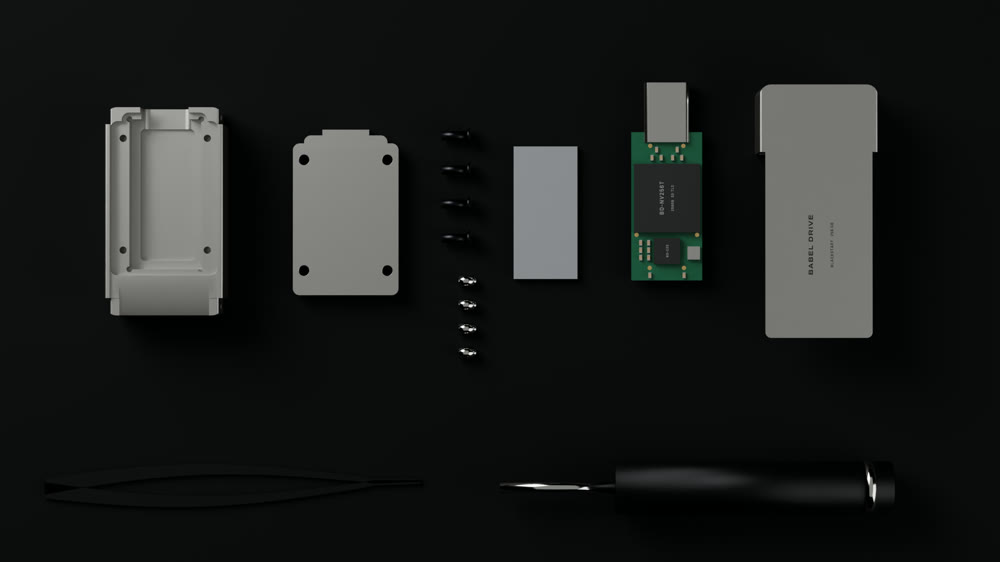
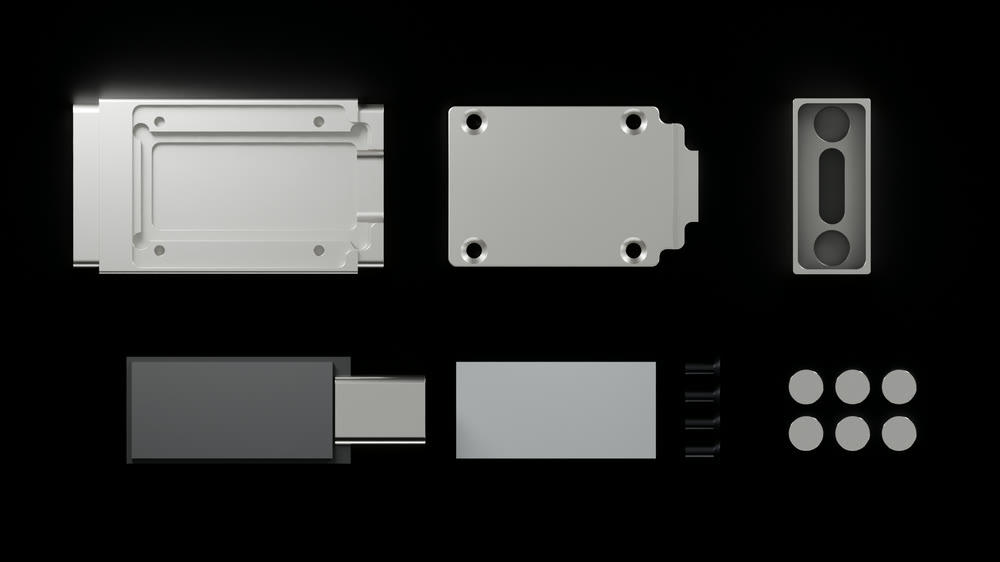
Deploy 2026-11-14 16:23

diff --git a/index.html b/index.html
@@ -718,12 +718,12 @@ footer .wrap{display:flex;flex-wrap:wrap;justify-content:space-between;gap:12px 
         <p class="lede">Machined from solid 316L stainless. The cap is held by magnets and fits either end.</p>
       </div>
       <figure class="shot big">
-        <div class="zoom"><img class="rise" src="img/plug-1600.jpg" srcset="img/plug-1000.jpg 1000w, img/plug-1600.jpg 1600w, img/plug-2400.jpg 2400w" sizes="(min-width: 1360px) 1280px, 92vw" width="2400" height="1500" loading="lazy" decoding="async" alt="Close-up of the USB-C plug held in the steel body"></div>
+        <div class="zoom"><img class="rise" src="img/plug-1600.jpg?v=2" srcset="img/plug-1000.jpg?v=2 1000w, img/plug-1600.jpg?v=2 1600w, img/plug-2400.jpg?v=2 2400w" sizes="(min-width: 1360px) 1280px, 92vw" width="2400" height="1500" loading="lazy" decoding="async" alt="Close-up of the USB-C plug held in the steel body"></div>
         <figcaption class="cap-row"><span>USB-C, held in steel on four sides</span><span>01</span></figcaption>
       </figure>
       <div class="pair">
-        <figure><div class="zoom"><img class="rise" src="img/logo-1000.jpg" srcset="img/logo-1000.jpg 1000w, img/logo-1600.jpg 1600w" sizes="(min-width: 700px) 46vw, 92vw" width="1600" height="1000" loading="lazy" decoding="async" alt="Laser-marked Babel Drive logo on the steel body"></div><figcaption class="cap-row"><span>Laser-marked on solid steel</span><span>02</span></figcaption></figure>
-        <figure><div class="zoom"><img class="rise" src="img/posted-1000.jpg" srcset="img/posted-1000.jpg 1000w, img/posted-1600.jpg 1600w" sizes="(min-width: 700px) 46vw, 92vw" width="1600" height="1000" loading="lazy" decoding="async" alt="The cap on the back end while the drive is in use"></div><figcaption class="cap-row"><span>Cap posts on the back</span><span>03</span></figcaption></figure>
+        <figure><div class="zoom"><img class="rise" src="img/logo-1000.jpg?v=2" srcset="img/logo-1000.jpg?v=2 1000w, img/logo-1600.jpg?v=2 1600w" sizes="(min-width: 700px) 46vw, 92vw" width="1600" height="1000" loading="lazy" decoding="async" alt="Laser-marked Babel Drive logo on the steel body"></div><figcaption class="cap-row"><span>Laser-marked on solid steel</span><span>02</span></figcaption></figure>
+        <figure><div class="zoom"><img class="rise" src="img/posted-1000.jpg?v=2" srcset="img/posted-1000.jpg?v=2 1000w, img/posted-1600.jpg?v=2 1600w" sizes="(min-width: 700px) 46vw, 92vw" width="1600" height="1000" loading="lazy" decoding="async" alt="The cap on the back end while the drive is in use"></div><figcaption class="cap-row"><span>Cap posts on the back</span><span>03</span></figcaption></figure>
       </div>
 
       <div class="viewer" id="viewer">
@@ -756,8 +756,8 @@ footer .wrap{display:flex;flex-wrap:wrap;justify-content:space-between;gap:12px 
   </section>
 
   <figure class="bleed parts">
-    <div class="parts-pan" id="ppan"><div class="parts-stage" id="parts"><img class="rise" src="img/parts-1600.jpg" srcset="img/parts-1000.jpg 1000w, img/parts-1600.jpg 1600w, img/parts-2400.jpg 2400w" sizes="(max-width: 699px) 190vw, 100vw" width="2400" height="1350" loading="lazy" decoding="async" alt="Every part laid out: steel body, cover, four Torx screws, four click balls, thermal pad, the 256 GB board with its USB-C plug, and the cap"><button type="button" class="hs" data-i="0" style="left:16.4%;top:37.8%" aria-label="Body: 316L stainless, machined from solid">01</button><button type="button" class="hs" data-i="1" style="left:34.6%;top:37.8%" aria-label="Cover: Steel, held by four screws">02</button><button type="button" class="hs" data-i="2" style="left:45.6%;top:33.0%" aria-label="Torx screws ×4: M1.6, flush">03</button><button type="button" class="hs" data-i="3" style="left:46.8%;top:56.0%" aria-label="Click balls ×4: The click when the cap goes on">04</button><button type="button" class="hs" data-i="4" style="left:54.5%;top:37.8%" aria-label="Thermal pad: Presses the board down">05</button><button type="button" class="hs" data-i="5" style="left:66.6%;top:36.7%" aria-label="256 GB board: One chip and the USB-C plug">06</button><button type="button" class="hs" data-i="6" style="left:81.9%;top:37.8%" aria-label="Cap and clip: One piece, 17-4PH steel">07</button><div class="hs-tip" id="hstip"><b></b><span></span></div></div></div>
-    <div class="wrap"><p class="pan-hint" aria-hidden="true"><i></i>Swipe to see every part</p><ul class="parts-key" id="pkey"><li data-i="0"><b>01</b>Body</li><li data-i="1"><b>02</b>Cover</li><li data-i="2"><b>03</b>Torx screws ×4</li><li data-i="3"><b>04</b>Click balls ×4</li><li data-i="4"><b>05</b>Thermal pad</li><li data-i="5"><b>06</b>256 GB board</li><li data-i="6"><b>07</b>Cap and clip</li></ul></div>
+    <div class="parts-pan" id="ppan"><div class="parts-stage" id="parts"><img class="rise" src="img/parts-1600.jpg?v=2" srcset="img/parts-1000.jpg?v=2 1000w, img/parts-1600.jpg?v=2 1600w, img/parts-2400.jpg?v=2 2400w" sizes="(max-width: 699px) 190vw, 100vw" width="2400" height="1350" loading="lazy" decoding="async" alt="Every part laid out: steel body, cover and cap, the 256 GB board with its USB-C plug, thermal pad, four screws and six magnets"><button type="button" class="hs" data-i="0" style="left:22.8%;top:33.1%" aria-label="Body: 316L stainless, machined from solid">01</button><button type="button" class="hs" data-i="1" style="left:57.3%;top:33.1%" aria-label="Cover: Steel, held by four screws">02</button><button type="button" class="hs" data-i="2" style="left:90.5%;top:33.1%" aria-label="Cap: Solid steel, held by magnets">03</button><button type="button" class="hs" data-i="3" style="left:20.4%;top:73.0%" aria-label="256 GB board: One chip and the USB-C plug">04</button><button type="button" class="hs" data-i="4" style="left:55.6%;top:73.0%" aria-label="Thermal pad: Presses the board down">05</button><button type="button" class="hs" data-i="5" style="left:70.3%;top:60.0%" aria-label="Screws ×4: M1.6, flush">06</button><button type="button" class="hs" data-i="6" style="left:85.3%;top:60.0%" aria-label="Magnets ×6: Hold the cap on either end">07</button><div class="hs-tip" id="hstip"><b></b><span></span></div></div></div>
+    <div class="wrap"><p class="pan-hint" aria-hidden="true"><i></i>Swipe to see every part</p><ul class="parts-key" id="pkey"><li data-i="0"><b>01</b>Body</li><li data-i="1"><b>02</b>Cover</li><li data-i="2"><b>03</b>Cap</li><li data-i="3"><b>04</b>256 GB board</li><li data-i="4"><b>05</b>Thermal pad</li><li data-i="5"><b>06</b>Screws ×4</li><li data-i="6"><b>07</b>Magnets ×6</li></ul></div>
   </figure>
 
   <section class="sec film" id="film" aria-labelledby="film-h">
@@ -832,7 +832,7 @@ footer .wrap{display:flex;flex-wrap:wrap;justify-content:space-between;gap:12px 
         <p class="err" role="alert" hidden></p>
       </form>
     </div>
-    <div class="end-img"><img class="rise" src="img/s/5-1200.jpg" srcset="img/s/5-1200.jpg 1200w, img/s/5-2000.jpg 2000w" sizes="(min-width: 1100px) 1300px, 118vw" width="2000" height="1250" loading="lazy" decoding="async" alt="Blackstart, capped, on a black table"></div>
+    <div class="end-img"><img class="rise" src="img/s/5-1200.jpg?v=2" srcset="img/s/5-1200.jpg?v=2 1200w, img/s/5-2000.jpg?v=2 2000w" sizes="(min-width: 1100px) 1300px, 118vw" width="2000" height="1250" loading="lazy" decoding="async" alt="Blackstart, capped, on a black table"></div>
   </section>
 </main>
 
@@ -850,7 +850,7 @@ footer .wrap{display:flex;flex-wrap:wrap;justify-content:space-between;gap:12px 
 </div>
 
 <script>
-var HS = [["Body", "316L stainless, machined from solid"], ["Cover", "Steel, held by four screws"], ["Torx screws ×4", "M1.6, flush"], ["Click balls ×4", "The click when the cap goes on"], ["Thermal pad", "Presses the board down"], ["256 GB board", "One chip and the USB-C plug"], ["Cap and clip", "One piece, 17-4PH steel"]];
+var HS = [["Body", "316L stainless, machined from solid"], ["Cover", "Steel, held by four screws"], ["Cap", "Solid steel, held by magnets"], ["256 GB board", "One chip and the USB-C plug"], ["Thermal pad", "Presses the board down"], ["Screws ×4", "M1.6, flush"], ["Magnets ×6", "Hold the cap on either end"]];
 (function () {
   var reduce = matchMedia('(prefers-reduced-motion: reduce)').matches || /[?&]static/.test(location.search);   // ?static: preview shots without motion
   var fine = matchMedia('(pointer: fine)').matches;
@@ -1086,7 +1086,7 @@ var HS = [["Body", "316L stainless, machined from solid"], ["Cover", "Steel, hel
   });
 
   /* outline drawing (inline so it inherits the page's ink) */
-  fetch('img/drawing.svg').then(function (r) { return r.text(); }).then(function (s) {
+  fetch('img/drawing.svg?v=2').then(function (r) { return r.text(); }).then(function (s) {
     var d = document.getElementById('drawing'); d.innerHTML = s;
     if (reduce) return;
     d.querySelectorAll('.part path, .dim line').forEach(function (el, i) { el.setAttribute('pathLength', '1'); el.style.setProperty('--i', i); });
